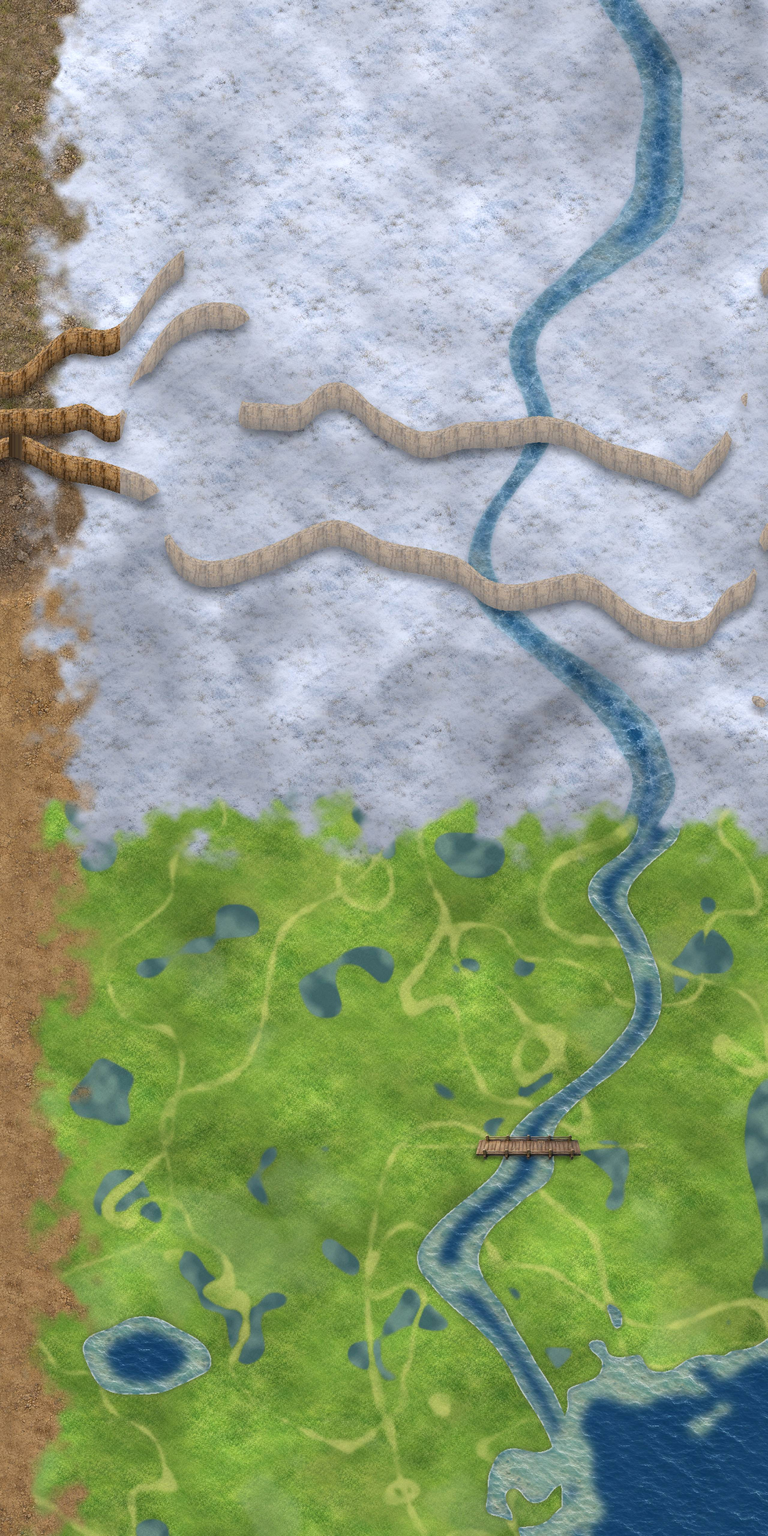
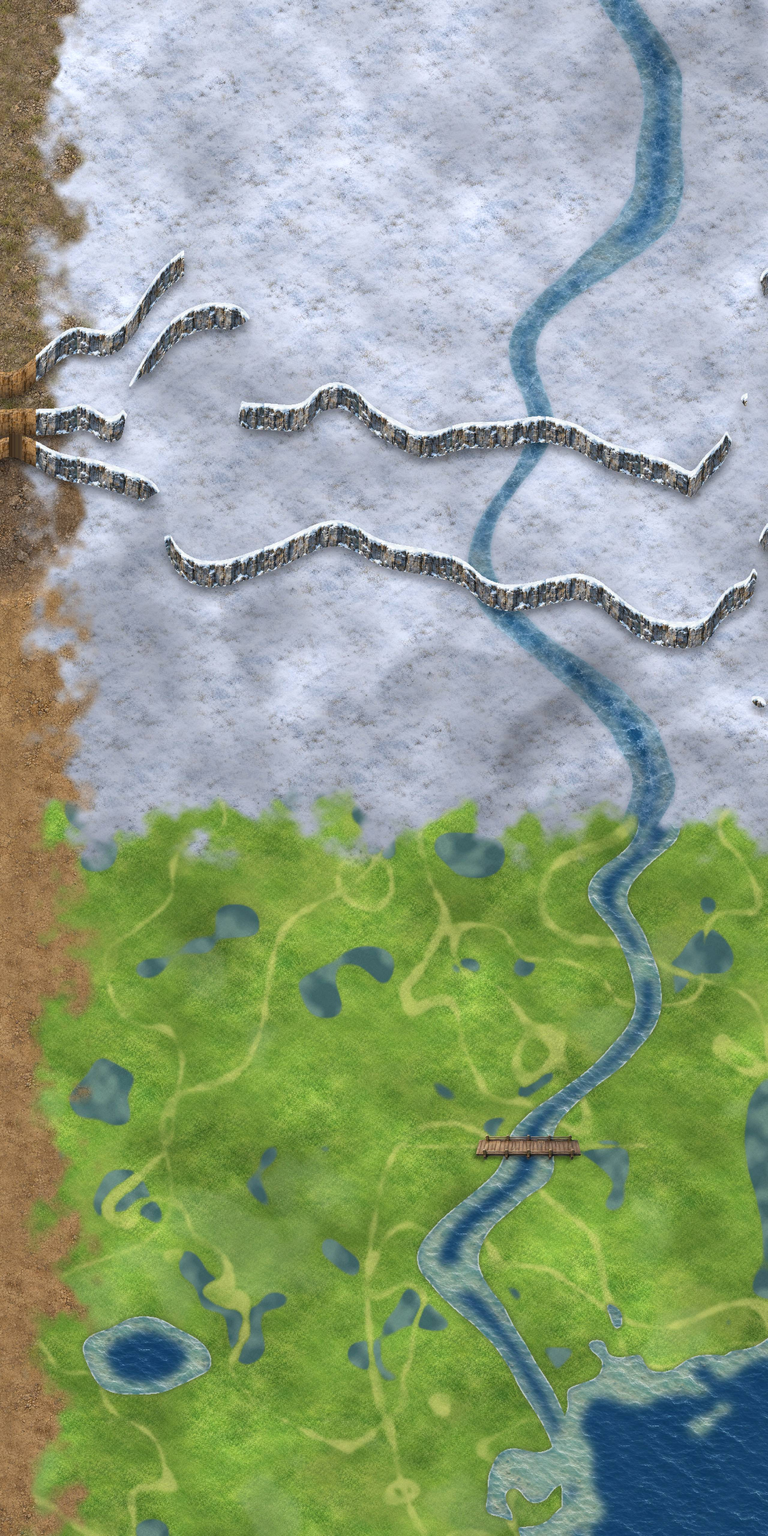
雪岩崖壁、雪地岩石/碎石、冰河岸边小件
Claude-Session: https://claude.ai/code/session_011WrGna6yNwTfpmyp4CxMHs

diff --git a/tools/build_mountain.py b/tools/build_mountain.py
@@ -90,14 +90,27 @@ hs=cv2.GaussianBlur(hs,(0,0),10)
 gx=cv2.Sobel(hs,cv2.CV_32F,1,0,ksize=3)/8; gy=cv2.Sobel(hs,cv2.CV_32F,0,1,ksize=3)/8
 shade=np.clip(1-12*(gx*0.6+gy*0.8)+0.015*h,0.85,1.18)
 base*=up(shade)[...,None]*up(0.93+0.035*Hc)[...,None]
+# 雪岩崖壁条纹理
+def snow_strip():
+    T=load('snowcliff.png'); hard=((np.minimum(T[...,0],T[...,2]).astype(np.int32)-T[...,1])<70).astype(np.uint8)
+    k,lb,st,_=cv2.connectedComponentsWithStats(cv2.dilate(hard,np.ones((9,9),np.uint8)))
+    cs=sorted([st[i] for i in range(1,k) if st[i][4]>3000 and st[i][1]<300],key=lambda c:c[0])[:3]
+    parts=[]
+    for x,y,w,h_,_ in cs:
+        p=T[y+int(h_*.06):y+int(h_*.86),x+8:x+w-8].copy()
+        m=((np.minimum(p[...,0],p[...,2]).astype(np.int32)-p[...,1])>60).astype(np.uint8)
+        p=cv2.inpaint(p,cv2.dilate(m,np.ones((5,5),np.uint8)),5,cv2.INPAINT_TELEA)
+        parts.append(cv2.resize(p,(round(p.shape[1]*FH/p.shape[0]),FH),interpolation=cv2.INTER_AREA))
+    return np.concatenate(parts,1).astype(np.float32)
+Cs=snow_strip(); print('snow strip',Cs.shape)
 # 崖面 + 崖脚阴影
 fH=np.repeat(np.repeat(face,2,0),2,1)
 f=fH.astype(np.int32); cs=np.cumsum(f,axis=0); reset=np.maximum.accumulate(np.where(f==0,cs,0),axis=0); run=cs-reset; del cs,reset,f
 ys_,xs2=np.nonzero(fH)
 rows=np.minimum(run[ys_,xs2]-1,FH-1)
 base[ys_,xs2]=Ct[rows,xs2%Ct.shape[1]]
-sn=(xs2>=2*(CW+OV))&(ys_<2*1300)
-base[ys_[sn],xs2[sn]]=base[ys_[sn],xs2[sn]]*0.5+np.array([196,203,216],np.float32)*0.5
+sn=(xs2>=2*(CW+60))&(ys_<2*1300)
+base[ys_[sn],xs2[sn]]=Cs[rows[sn],xs2[sn]%Cs.shape[1]]
 del run,ys_,xs2,rows
 fa=cv2.GaussianBlur(face.astype(np.float32),(0,0),7); fa=np.roll(fa,10,0)*(1-face)
 base*=(1-0.42*up(fa))[...,None]
@@ -150,6 +163,8 @@ spr={n:to_sprite(a,hg) for n,a,hg in zip(mn,comps,mh)}
 wn=['wreed1','wreed2','wreed3','wreed4','wcat1','wcat2','wcat3','wcat4','wlily1','wlily2','wlily3','wlily4','wtuft','wstone','wlog','wpud']
 wh=[70,62,46,64,66,64,68,44,30,34,30,26,28,20,22,26]
 for n,a_,hg in zip(wn,extract('wetland.png',3000,16,313),wh): spr[n]=to_sprite(a_,hg)
+sc=extract('snowcliff.png',3000,12,313)[3:]
+for n,a_,hg in zip(['srock1','srock2','srock3','srub1','srub2','srub3','sicerock','sreed','sice'],sc,[46,32,20,34,26,16,26,36,14]): spr[n]=to_sprite(a_,hg)
 for n,im in spr.items(): im.save(OUT+'sprites/'+n+'.png',optimize=True)
 sizes={n:[im.width/HD,im.height/HD] for n,im in spr.items()}
 bl_d=cv2.dilate(blocked.astype(np.uint8),np.ones((25,25),np.uint8)).astype(bool)
@@ -207,9 +222,19 @@ for _ in range(60000):
     elif r<0.9 and wd<24 and far(x,y,14): put('wstone',x,y,14)
     elif r<0.94 and wd<30 and far(x,y,18): put('wpud',x,y,18)
     elif r<0.96 and far(x,y,22): put('wlog',x,y,22)
+# 雪地：岩石在崖脚，碎石堆在崖脚，冰河岸边小件
+for _ in range(80000):
+    x=int(rng.integers(CW+OV+20,N-20)); y=int(rng.integers(30,1290))
+    if cc[y,x-CW,0]!=0 or bl_d[y,x]: continue
+    wd=wdm[y,x-CW]; r=rng.random()
+    if nearcl[y,x] and not faceband[y,x]:
+        if r<0.012 and far(x,y,18): put('srock'+str(1+int(rng.integers(3))),x,y,18)
+        elif r<0.03 and far(x,y,14): put('srub'+str(1+int(rng.integers(3))),x,y,14)
+    elif 8<wd<50 and r<0.02 and far(x,y,16): put(['sicerock','sreed','sice'][int(rng.integers(3))],x,y,16)
 print('objs',len(allo))
 size={**cw['size'],**sizes}
 cr={**cw['coll_r'],'mpine1':5,'mpine2':5,'mdead':5,'mrock':8}
+cr.update({'srock1':14,'srock2':10,'srock3':6,'sicerock':8})
 for k_ in ('bushL1','bushL2'): cr.pop(k_,None)
 b=cw['bridge']; bw=b['walk']
 wj={'WW':N,'WH':N,'HD':HD,'size':size,'coll_r':cr,'objs':allo,'bridge':{'x':b['x']+CW,'y':b['y'],'walk':[bw[0]+CW,bw[1],bw[2]+CW,bw[3]]},
